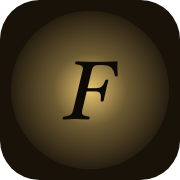
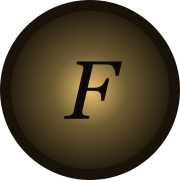
Change Ember F mark from rounded square to circle
Per explicit request: the mark's tile is now a full circle instead
of a rounded square (rx=22 rect -> circle) across favicon.svg,
favicon.ico, apple-touch-icon.png, and both index.html/es/index.html
(hero brand-mark + footer-mark SVGs and their CSS border-radius).

diff --git a/es/index.html b/es/index.html
@@ -131,8 +131,8 @@
 
 .hero{ max-width:760px; margin:0 auto; padding:5.5rem 1.75rem 4rem; }
 .eyebrow{ font-family:var(--font-mono); text-transform:uppercase; letter-spacing:.22em; font-size:.7rem; color:var(--t1); margin:0 0 1.1rem; }
-.brand-mark{ width:2.75rem; height:2.75rem; margin:0 0 1.5rem; border-radius:22%; }
-.footer-mark{ width:1.6rem; height:1.6rem; margin:0 auto 1.1rem; display:block; border-radius:22%; }
+.brand-mark{ width:2.75rem; height:2.75rem; margin:0 0 1.5rem; border-radius:50%; }
+.footer-mark{ width:1.6rem; height:1.6rem; margin:0 auto 1.1rem; display:block; border-radius:50%; }
 .hero h1{ font-family:var(--font-display); font-weight:400; font-size:clamp(2.3rem,5.6vw,3.5rem); margin:0; text-wrap:balance; letter-spacing:.005em; }
 .dek{ font-family:var(--font-mono); font-size:.82rem; letter-spacing:.08em; text-transform:uppercase; color:var(--ink-muted); margin:.9rem 0 0; }
 .intro{ font-family:var(--font-body); font-size:1.06rem; line-height:1.7; color:var(--ink-muted); max-width:60ch; margin:1.6rem 0 0; }
@@ -258,7 +258,7 @@
 
   <header class="hero">
     <svg class="brand-mark" viewBox="0 0 100 100" role="img" aria-label="Marca de La Escala de Oscuridad en Obras de Fantasía">
-      <rect width="100" height="100" rx="22" fill="#181209"/>
+      <circle cx="50" cy="50" r="50" fill="#181209"/>
       <defs>
         <radialGradient id="heroMarkGlow" cx="50%" cy="50%" r="55%">
           <stop offset="0%" stop-color="hsl(42 75% 68%)"/>
@@ -532,7 +532,7 @@
       </ul>
       <p class="note">Importante: esta escala no mide &#250;nicamente la violencia. Una obra puede contener muerte, guerra y horror sin ser grimdark si el hero&#237;smo, la redenci&#243;n y el cambio significativo siguen siendo posibles.</p>
       <svg class="footer-mark" viewBox="0 0 100 100" role="img" aria-label="Marca de La Escala de Oscuridad en Obras de Fantasía">
-        <rect width="100" height="100" rx="22" fill="#181209"/>
+        <circle cx="50" cy="50" r="50" fill="#181209"/>
         <defs>
           <radialGradient id="footerMarkGlow" cx="50%" cy="50%" r="55%">
             <stop offset="0%" stop-color="hsl(42 75% 68%)"/>

diff --git a/index.html b/index.html
@@ -131,8 +131,8 @@
 
 .hero{ max-width:760px; margin:0 auto; padding:5.5rem 1.75rem 4rem; }
 .eyebrow{ font-family:var(--font-mono); text-transform:uppercase; letter-spacing:.22em; font-size:.7rem; color:var(--t1); margin:0 0 1.1rem; }
-.brand-mark{ width:2.75rem; height:2.75rem; margin:0 0 1.5rem; border-radius:22%; }
-.footer-mark{ width:1.6rem; height:1.6rem; margin:0 auto 1.1rem; display:block; border-radius:22%; }
+.brand-mark{ width:2.75rem; height:2.75rem; margin:0 0 1.5rem; border-radius:50%; }
+.footer-mark{ width:1.6rem; height:1.6rem; margin:0 auto 1.1rem; display:block; border-radius:50%; }
 .hero h1{ font-family:var(--font-display); font-weight:400; font-size:clamp(2.3rem,5.6vw,3.5rem); margin:0; text-wrap:balance; letter-spacing:.005em; }
 .dek{ font-family:var(--font-mono); font-size:.82rem; letter-spacing:.08em; text-transform:uppercase; color:var(--ink-muted); margin:.9rem 0 0; }
 .intro{ font-family:var(--font-body); font-size:1.06rem; line-height:1.7; color:var(--ink-muted); max-width:60ch; margin:1.6rem 0 0; }
@@ -258,7 +258,7 @@
 
   <header class="hero">
     <svg class="brand-mark" viewBox="0 0 100 100" role="img" aria-label="The Fantasy Darkness Scale mark">
-      <rect width="100" height="100" rx="22" fill="#181209"/>
+      <circle cx="50" cy="50" r="50" fill="#181209"/>
       <defs>
         <radialGradient id="heroMarkGlow" cx="50%" cy="50%" r="55%">
           <stop offset="0%" stop-color="hsl(42 75% 68%)"/>
@@ -532,7 +532,7 @@
       </ul>
       <p class="note">Important: this scale does not measure violence alone. A work can contain death, war, and horror without being grimdark if heroism, redemption, and meaningful change remain possible.</p>
       <svg class="footer-mark" viewBox="0 0 100 100" role="img" aria-label="The Fantasy Darkness Scale mark">
-        <rect width="100" height="100" rx="22" fill="#181209"/>
+        <circle cx="50" cy="50" r="50" fill="#181209"/>
         <defs>
           <radialGradient id="footerMarkGlow" cx="50%" cy="50%" r="55%">
             <stop offset="0%" stop-color="hsl(42 75% 68%)"/>
